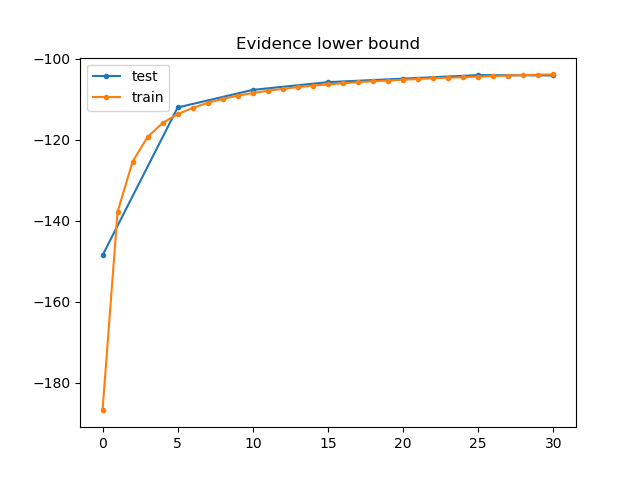
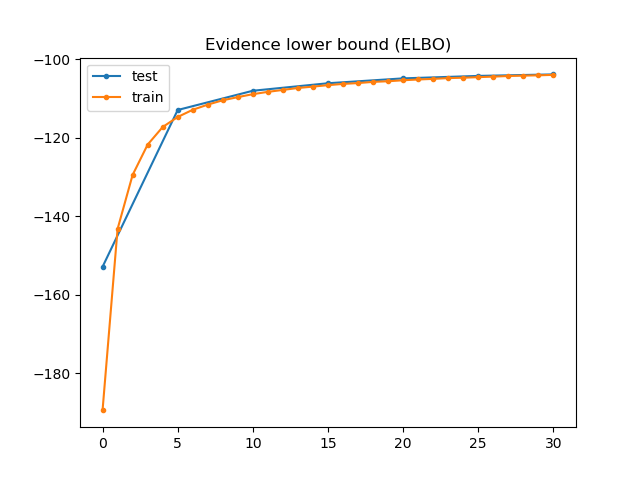
master

diff --git a/tools/Visualisations.py b/tools/Visualisations.py
@@ -4,6 +4,7 @@ import seaborn as sns
 import pandas as pd
 from sklearn.manifold import TSNE
 from ggplot import *
+from sklearn.metrics import confusion_matrix
 
 def compare_images(VariationalAutoEncoder,
                    test_loader,
@@ -37,7 +38,10 @@ def compare_images(VariationalAutoEncoder,
                 plt.subplot(number_original_images, number_generated_images + 1, subfigure)
 
                 image_reconstructed = VariationalAutoEncoder.reconstruct_img(image).detach().numpy().reshape(28,28)
-                plt.title("Generated image")
+
+                if (subfigure - 2) % (number_generated_images + 1) == 0:
+                    plt.title("Generated images")
+
                 plt.imshow(image_reconstructed, cmap='gray', interpolation='none')
 
                 plt.xticks([])
@@ -49,12 +53,7 @@ def compare_images(VariationalAutoEncoder,
 
 
 def t_SNE(test_loader, variational_autoencoder):
-    """
-    single batch
-    :param test_loader:
-    :param variational_autoencoder:
-    :return:
-    """
+
     features = list()
     labels = list()
 
@@ -93,8 +92,90 @@ def t_SNE(test_loader, variational_autoencoder):
 
     chart.show()
 
+def describe_statistic_per_label(test_loader, variational_autoencoder):
+
+    features = list()
+    labels = list()
+
+    examples = enumerate(test_loader)
+
+    for batch_idx, (example_data, example_targets) in examples:
+        for idx in range(example_data.shape[0]):
+
+            x = example_data[idx][0]
+            z_loc, z_scale = variational_autoencoder.encoder(x)
+
+            values = np.concatenate((z_loc[0].detach().numpy(), z_scale[0].detach().numpy()))
+            features.append(values)
+            label = example_targets[idx].detach().numpy()
+            labels.append(label)
+
+    loc_cols = ['loc_' + str(i) for i in range(variational_autoencoder.z_dim)]
+    scale_cols = ['scale_' + str(i) for i in range(variational_autoencoder.z_dim)]
+    feat_cols = loc_cols + scale_cols
+
+    df = pd.DataFrame(features, columns=feat_cols)
+    df['label'] = labels
+    df['label'] = df['label'].apply(lambda i: str(i))
+
+    print(df.groupby("label").describe())
 
 
+def show_confusion_matrix(test_loader, classifier):
+
+    y_test = list()
+    y_pred = list()
+
+    examples = enumerate(test_loader)
+
+    for batch_idx, (example_data, example_targets) in examples:
+
+        outputs = classifier(example_data)
+
+        for idx in range(example_data.shape[0]):
+
+            current_prediction = outputs[idx].detach().numpy()
+            y_pred.append(current_prediction)
+
+            label = example_targets[idx].detach().numpy()
+            y_test.append(label)
+
+    y_pred = np.array(y_pred)
+    y_pred = np.argmax(y_pred,axis=1)
+
+    labels = [str(i) for i in range(10)]
+
+    cm = confusion_matrix(y_test, y_pred)
+    # Only use the labels that appear in the data
+    classes = labels
+
+    cm = cm.astype('float') / cm.sum(axis=1)[:, np.newaxis]
 
 
+    fig, ax = plt.subplots()
+    im = ax.imshow(cm, interpolation='nearest', cmap=plt.cm.Blues)
+    ax.figure.colorbar(im, ax=ax)
+    # We want to show all ticks...
+    ax.set(xticks=np.arange(cm.shape[1]),
+           yticks=np.arange(cm.shape[0]),
+           # ... and label them with the respective list entries
+           xticklabels=classes, yticklabels=classes,
+           title="normalized confusion matrix",
+           ylabel='True label',
+           xlabel='Predicted label')
+
+    # Rotate the tick labels and set their alignment.
+    plt.setp(ax.get_xticklabels(), rotation=45, ha="right",
+             rotation_mode="anchor")
+
+    # Loop over data dimensions and create text annotations.
+    fmt = '.2f'
+    thresh = cm.max() / 2.
+    for i in range(cm.shape[0]):
+        for j in range(cm.shape[1]):
+            ax.text(j, i, format(cm[i, j], fmt),
+                    ha="center", va="center",
+                    color="white" if cm[i, j] > thresh else "black")
+    fig.tight_layout()
+    plt.show()
 

diff --git a/script/training_script.py b/script/training_script.py
@@ -17,33 +17,27 @@ from tools.Visualisations import compare_images
 
 from classifier.utils import train_classifier, evaluate_classifier
 from classifier.utils import return_model_accurary
-from tools.Visualisations import t_SNE
+from tools.Visualisations import t_SNE, describe_statistic_per_label, show_confusion_matrix
 
-smoke_test = False
-
+SMOKE_TEST = False
+TEST_FREQUENCY = 5
 
 pyro.enable_validation(True)
 pyro.distributions.enable_validation(False)
 pyro.set_rng_seed(0)
+pyro.clear_param_store()
 
-
-# Run options
 LEARNING_RATE = 1.0e-3
 USE_CUDA = False
-
-# Run only for a single iteration for testing
-NUM_EPOCHS = 1 if smoke_test else 31
-TEST_FREQUENCY = 5
+NUM_EPOCHS = 1 if SMOKE_TEST else 31
 
 train_loader, test_loader = setup_data_loaders(batch_size=256, use_cuda=USE_CUDA)
 
+###################################################
+# Variational Autoencoder definition and training #
+###################################################
 
-# clear param store
-pyro.clear_param_store()
-
-# setup the VAE
 vae = VAE(use_cuda=USE_CUDA)
-
 
 adam_args = {"lr": LEARNING_RATE}
 optimizer = Adam(adam_args)
@@ -64,15 +58,22 @@ for epoch in range(NUM_EPOCHS):
         loss_monitor_vae.append_values(epoch, -total_epoch_loss_test, set="test")
         print("[epoch %03d] average test loss: %.4f" % (epoch, total_epoch_loss_test))
 
-if not smoke_test:
-    loss_monitor_vae.show_losses()
+if not SMOKE_TEST:
+    loss_monitor_vae.show_losses(type_loss="Evidence lower bound (ELBO)")
     compare_images(vae, test_loader)
 
 vae.encoder.freeze()
 
+######################################
+# Classifier definition and training #
+######################################
+
 classifier = LogisticRegression(number_hidden_units=vae.z_dim, num_classes=10, encoder=vae.encoder)
 
 parameters_LR_VAE = ParameterLogisticRegressionVAE()
+if SMOKE_TEST:
+    parameters_LR_VAE.num_epochs = 2
+
 optimizer = torch.optim.SGD(classifier.parameters(), lr=parameters_LR_VAE.learning_rate)
 
 loss_monitor_classifier = LossesMonitor()
@@ -88,10 +89,12 @@ for epoch in tqdm(range(parameters_LR_VAE.num_epochs)):
         loss_monitor_classifier.append_values(epoch, loss_train, set="test")
         print("[epoch %03d]  average testing loss: %.4f" % (epoch, loss_test))
 
-if not smoke_test:
-    loss_monitor_classifier.show_losses()
+if not SMOKE_TEST:
+    loss_monitor_classifier.show_losses(type_loss="Cross entropy")
 
 accuracy = return_model_accurary(classifier, test_loader)
 print('Accuracy of the model on the 10000 test images: %d %%' % accuracy)
 
 t_SNE(test_loader, vae)
+describe_statistic_per_label(test_loader, vae)
+show_confusion_matrix(train_loader,classifier)

diff --git a/VariationalAutoEncoder/Encoder.py b/VariationalAutoEncoder/Encoder.py
@@ -24,31 +24,6 @@ class Encoder(nn.Module):
 
         return z_loc, z_scale
 
-    # define the model p(x|z)p(z)
-    def model(self, x):
-        # register PyTorch module `decoder` with Pyro
-        pyro.module("decoder", self.decoder)
-        with pyro.plate("data", x.shape[0]):
-
-            z_loc = x.new_zeros(torch.Size((x.shape[0], self.z_dim)))
-            z_scale = x.new_ones(torch.Size((x.shape[0], self.z_dim)))
-
-            z = pyro.sample("latent", dist.Normal(z_loc, z_scale).to_event(1))
-            loc_img = self.decoder.forward(z)
-
-            # score against actual images
-            pyro.sample("obs", dist.Bernoulli(loc_img).to_event(1), obs=x.reshape(-1, 784))
-
-    # define the guide (i.e. variational distribution) q(z|x)
-    def guide(self, x):
-
-        pyro.module("encoder", self.encoder)
-
-        with pyro.plate("data", x.shape[0]):
-
-            z_loc, z_scale = self.encoder.forward(x)
-            pyro.sample("latent", dist.Normal(z_loc, z_scale).to_event(1))
-
     def freeze(self):
         for param in self.parameters():
             param.requires_grad = False

diff --git a/tools/training_monitoring.py b/tools/training_monitoring.py
@@ -25,15 +25,17 @@ class LossesMonitor(object):
         else:
             raise ValueError("the set must be train or test")
 
-    def show_losses(self):
+    def show_losses(self, type_loss="loss"):
 
         assert len(self.train_epochs) > 0, "must have some values"
         assert len(self.test_epochs) > 0, "must have some values"
         assert len(self.train_elbo) > 0, "must have some values"
         assert len(self.test_elbo) > 0, "must have some values"
 
-        plt.title("Evidence lower bound")
+        plt.title(type_loss)
         plt.plot(self.test_epochs, self.test_elbo, ".-", label="test")
         plt.plot(self.train_epochs, self.train_elbo, ".-", label="train")
+        plt.xlabel("epochs")
+        plt.ylabel(type_loss)
         plt.legend()
         plt.show()

diff --git a/VariationalAutoEncoder/Decoder.py b/VariationalAutoEncoder/Decoder.py
@@ -12,10 +12,8 @@ class Decoder(nn.Module):
         self.sigmoid = nn.Sigmoid()
 
     def forward(self, z):
-        # define the forward computation on the latent z
-        # first compute the hidden units
+
         hidden = self.softplus(self.fc1(z))
-        # return the parameter for the output Bernoulli
-        # each is of size batch_size x 784
         loc_img = self.sigmoid(self.fc21(hidden))
+
         return loc_img

diff --git a/classifier/utils.py b/classifier/utils.py
@@ -5,7 +5,7 @@ from torch.autograd import Variable
 def train_classifier(classifier, optimizer,train_loader):
 
     total_loss_value = 0.0
-    number_of_observations =  len(train_loader.dataset)
+    number_of_observations = len(train_loader.dataset)
 
     for i, (images, labels) in enumerate(train_loader):
 

diff --git a/README.md b/README.md
@@ -1,10 +1,60 @@
 # VAE-Classifier
-Variational Autoencoder and Classifier hybrid
+We will use a Variational Auto-encoder as a feature extraction tool and a logistic regressor to make the classification. The type of combination of unsupervised/supervised learning can be used when we have a lot of data but not much labeled data. 
 
 # Anaconda environment
 
 ```
-conda env create --file requirement.yml
+conda env create --file requirements.yml
 ```
 
-#
+# 1- Variational AutoEncoder
+
+The variational Autoencoder encodes the data into a latent representation and then generates an image.  We can use the variational lower bound
+
+
+
+<img src="./figures/eq_elbo9.png" width="500">
+
+where
+
+- p(z) is the prior N(0,1)
+
+- the second term is the reconstruction loss
+
+- the first term is the  Kullback-Leibler divergence between the prior and the latent representation. It acts as a regularization term 
+
+- phi is the encoder parameters
+- theta is the decoder parameters 
+
+
+
+Notes:
+
+- Decoder is a Bernouilli MLP
+- Latent representation is a vector of normal distributions
+
+<img src="./figures/Elbo_training.png" width="500">
+
+We are can see the images generated with the latent representation of some original images. 
+
+<img src="./figures/images_generated.png" width="1000">
+
+At iteration 1, the representation is still mixed between different digits.
+
+<img src="./figures/t_sne_1_iteration.png" width="500">
+
+At iteration 31, there is a clearer separation between the representation of different digits. 
+
+<img src="./figures/t_sne_31_iteration.png" width="500">
+
+# 2 - Classifier
+
+For the classifier, we used the freeze the encoder from the Variational Auto-encoder so it can be used as a feature extraction tool. We used a logistic regression on the latent representation for classification. Since the latent representation is generated randomly, we have a regularization that is made automatically.  
+
+<img src="./figures/loss.png" width="500">
+
+The accuracy of the model is 84% which is low for the problem at hand. Used a convolution network would be more appropriated image classification. 
+
+<img src="./figures/confusion_matrix.png" width="1000">
+
+
